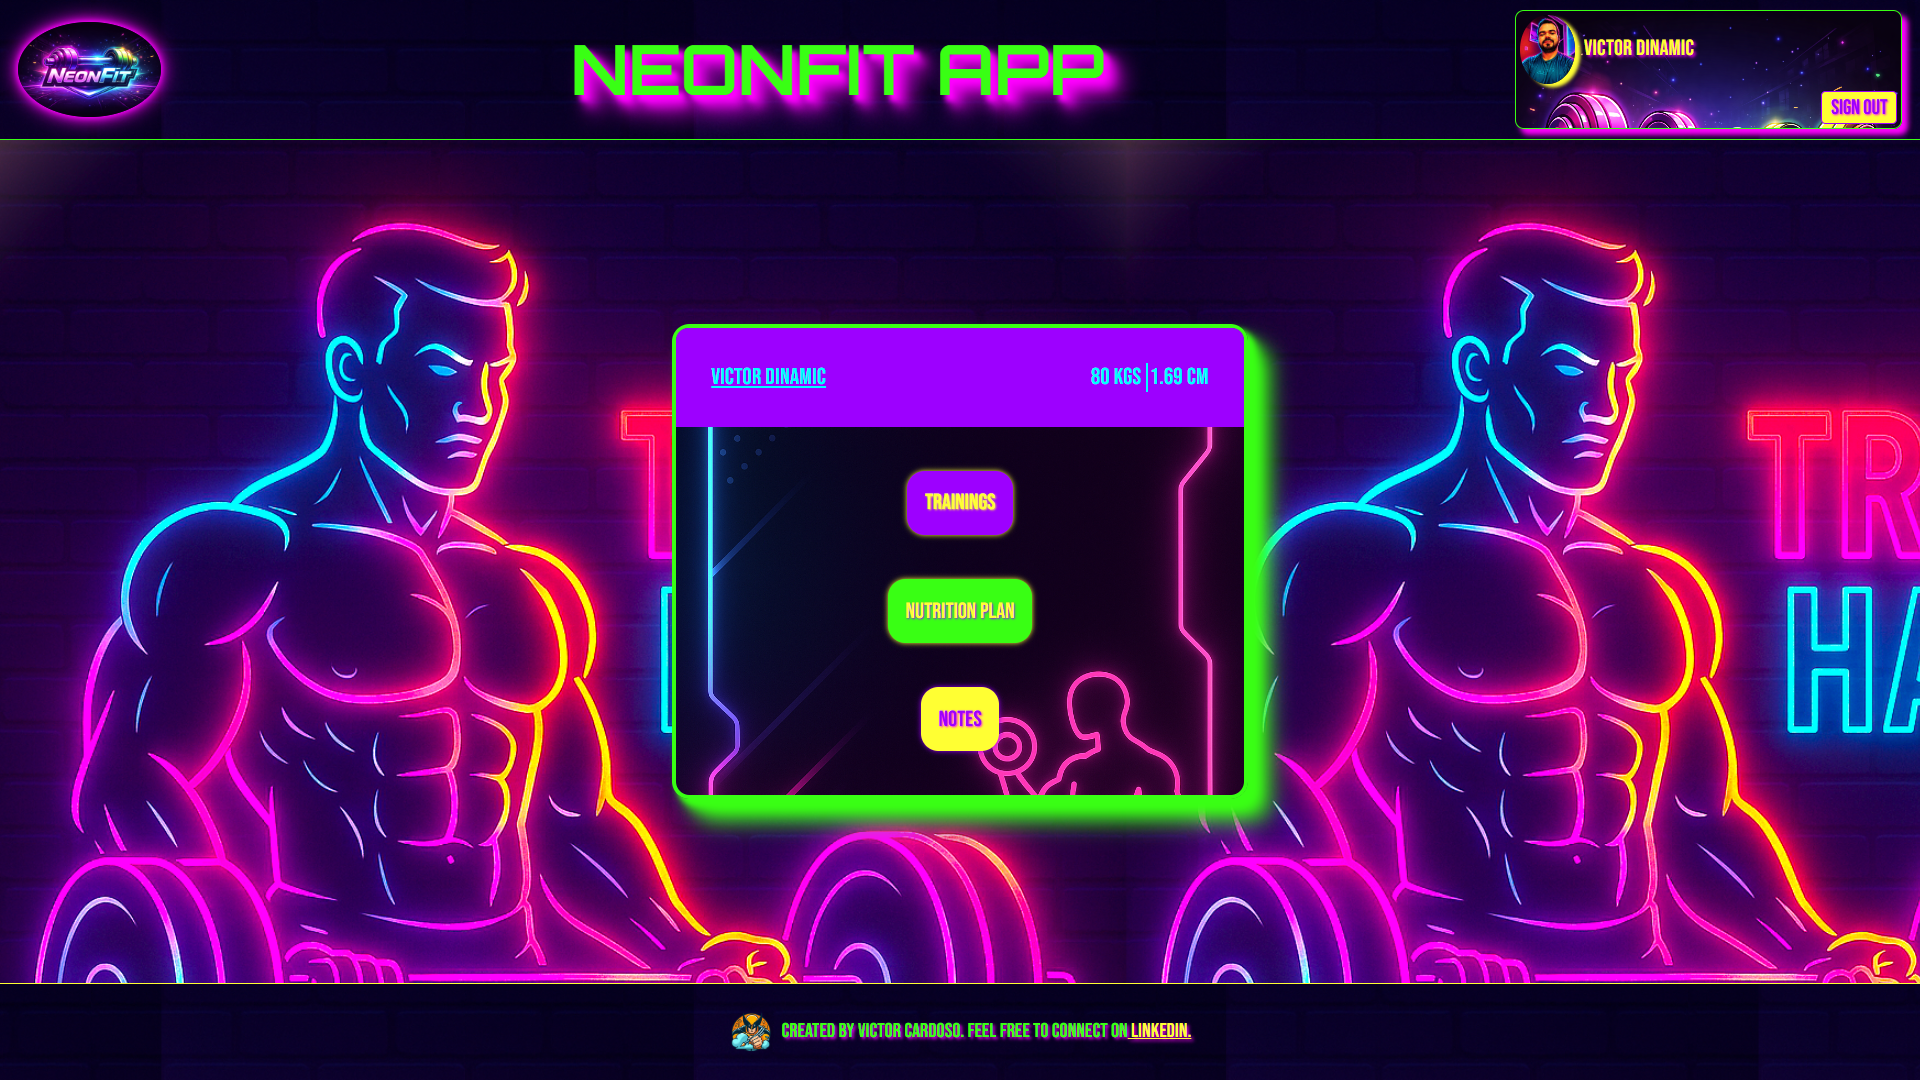
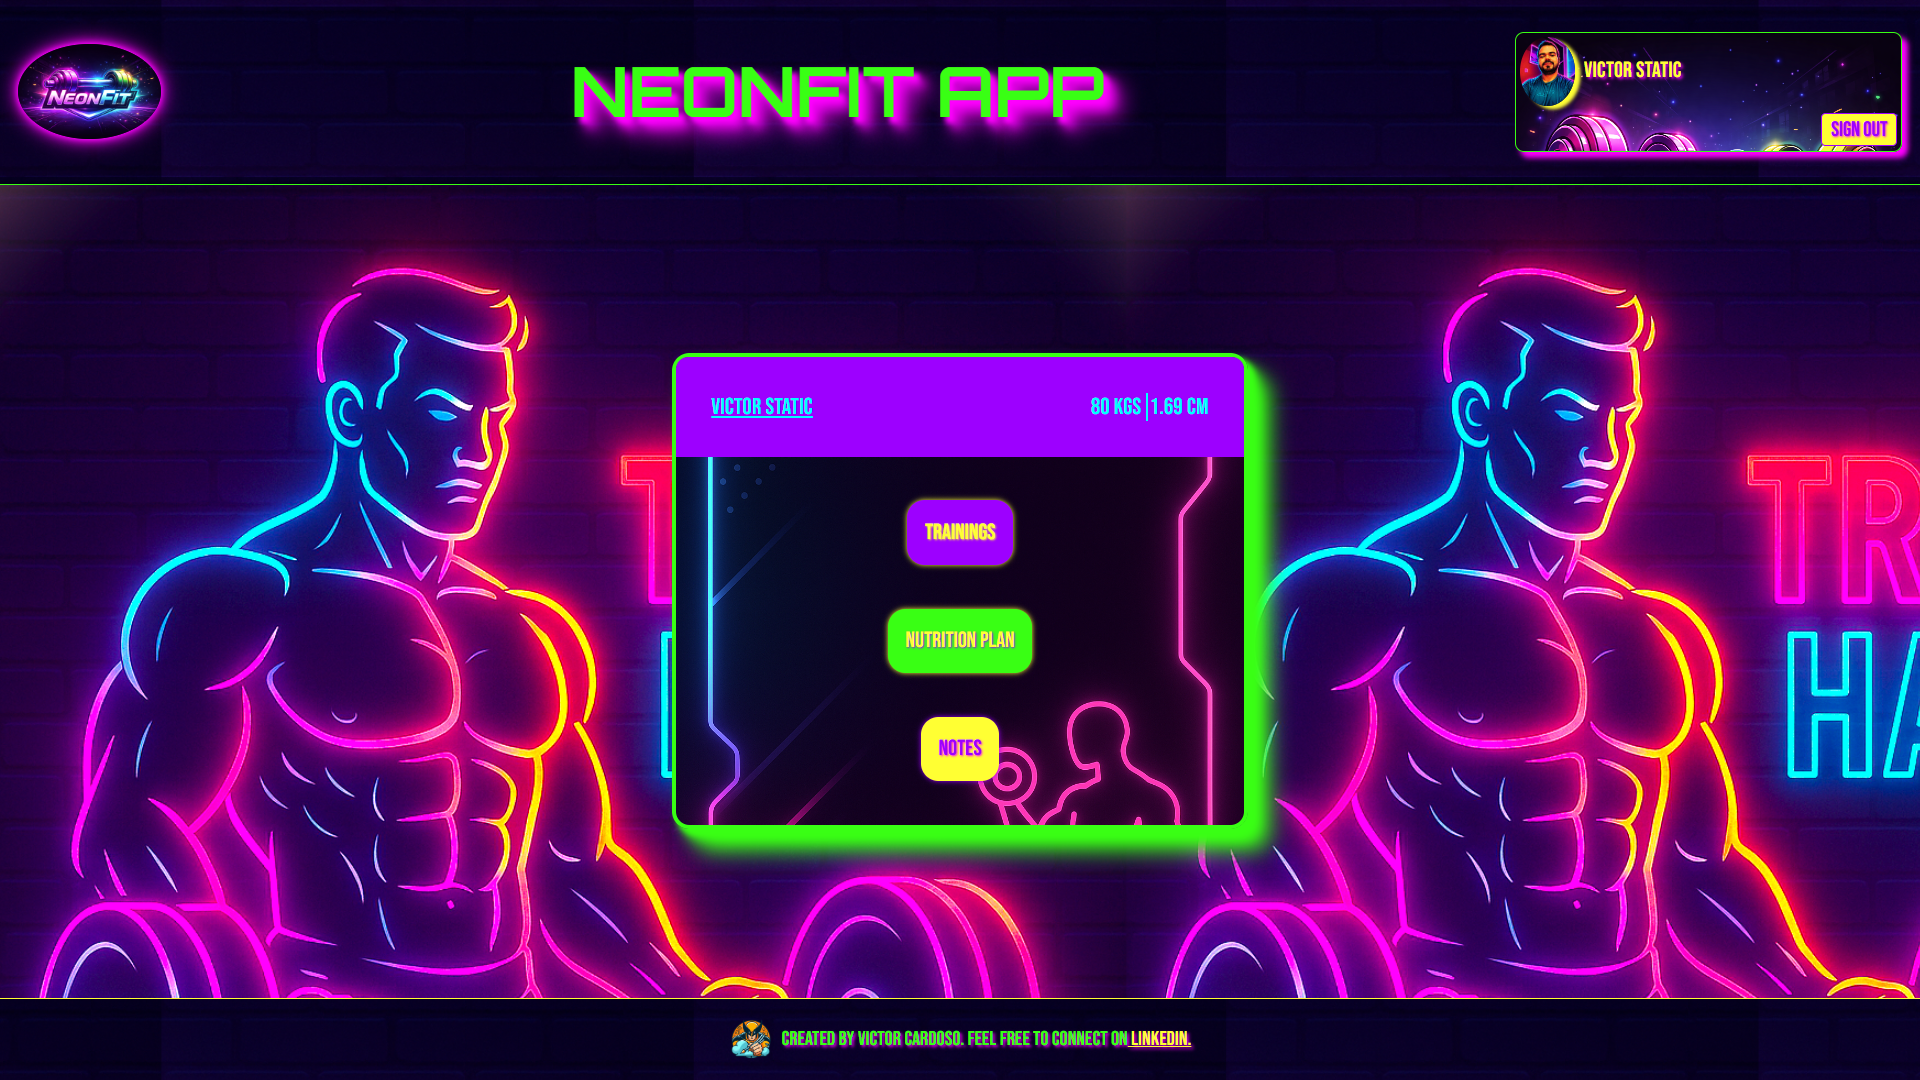
adjust responsiveness in ErrorLogin component

diff --git a/src/Components/Header/Header.jsx b/src/Components/Header/Header.jsx
@@ -51,13 +51,15 @@ function Header({ compactUserName }) {
 
         </div>
 
-        <div className='container-button-signout'>
-          <ButtonDefault
-            onClick={signOut}
-            nameButton='SIGN OUT'
-            specificStylesButton='specificStylesSignoutButton'
-          />
-        </div>
+        <Link className='link-container-button-signout' to='/'>
+          <div className='container-button-signout'>
+            <ButtonDefault
+              onClick={signOut}
+              nameButton='SIGN OUT'
+              specificStylesButton='specificStylesSignoutButton'
+            />
+          </div>
+        </Link>
 
       </div>}
 
@@ -74,13 +76,15 @@ function Header({ compactUserName }) {
 
         </div>
 
-        <div className='container-button-signout'>
-          <ButtonDefault
-            onClick={signOut}
-            nameButton='SIGN OUT'
-            specificStylesButton='specificStylesSignoutButton'
-          />
-        </div>
+        <Link className='link-container-button-signout' to='/'>
+          <div className='container-button-signout'>
+            <ButtonDefault
+              onClick={signOut}
+              nameButton='SIGN OUT'
+              specificStylesButton='specificStylesSignoutButton'
+            />
+          </div>
+        </Link>
 
       </div>}
 
@@ -101,16 +105,17 @@ function Header({ compactUserName }) {
           {<p className='container-login-signin-image-name-short-text'>{compactUserName(user.name, 8)}</p>}
           {<p className='container-login-signin-image-name-long-text'>{compactUserName(user.name, 15)}</p>}
 
-
         </div>
 
-        <div className='container-button-signout'>
-          <ButtonDefault
-            onClick={signOut}
-            nameButton='SIGN OUT'
-            specificStylesButton='specificStylesSignoutButton'
-          />
-        </div>
+        <Link className='link-container-button-signout' to='/'>
+          <div className='container-button-signout'>
+            <ButtonDefault
+              onClick={signOut}
+              nameButton='SIGN OUT'
+              specificStylesButton='specificStylesSignoutButton'
+            />
+          </div>
+        </Link>
 
       </div>))}
 

diff --git a/src/Components/Header/Header.css b/src/Components/Header/Header.css
@@ -90,6 +90,14 @@
   box-shadow: 5px 3px 3px var(--border-yellow);
 }
 
+.link-container-button-signout {
+  display: flex;
+  justify-content: end;
+  align-items: center;
+  width: 100%;
+  text-decoration: none;
+}
+
 .container-button-signout {
   display: flex;
   justify-content: end;
